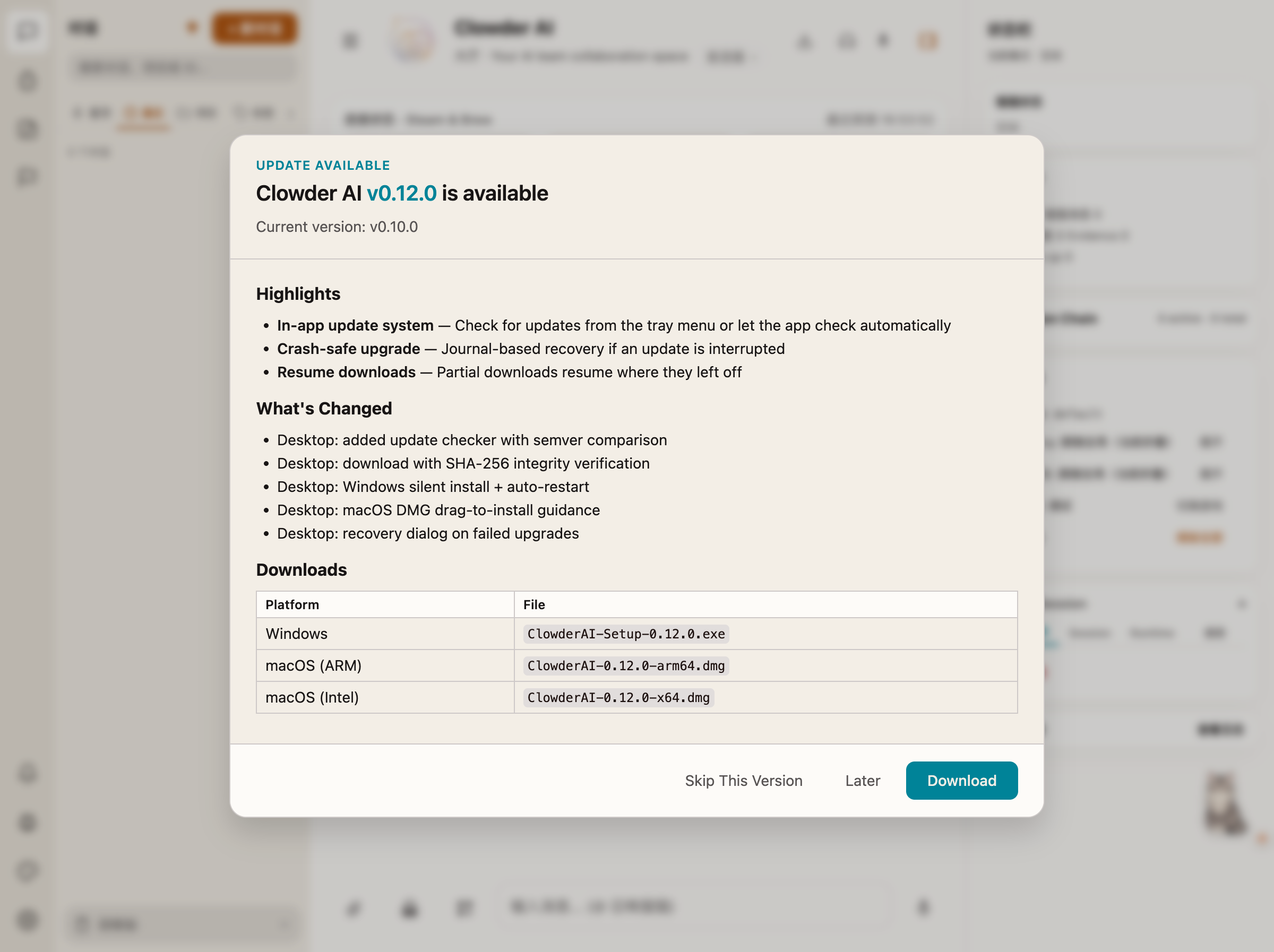
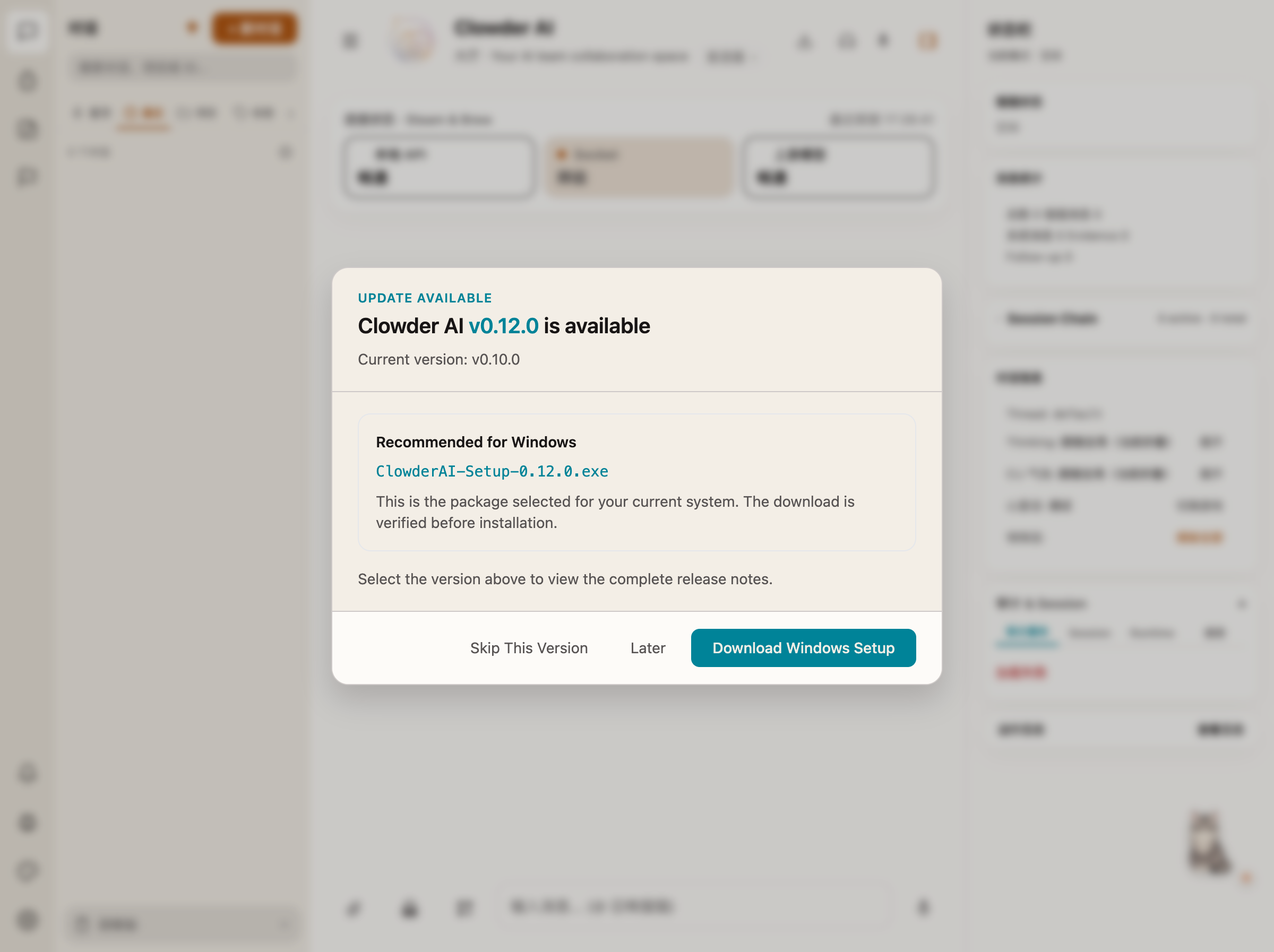
docs(F273): refresh platform-specific updater evidence
Why: operator feedback narrowed the offer to the checker-selected package and a compact modal, so the review packet and visual evidence must prove Windows/macOS isolation and ordinary-browser inertness at the final UI contract.

Guard: the fork-only inbound brand guard rejects the intentional upstream Clowder AI product name in the F273 feature document; Biome passed and an exact-head full gate follows immediately.

diff --git a/feature-specs/2026-07-28-f273-update-ux-fallback.md b/feature-specs/2026-07-28-f273-update-ux-fallback.md
@@ -9,12 +9,12 @@ created: 2026-07-28
 
 **Tracking:** PR #1105 post-merge field-validation findings
 **Goal:** Make the existing desktop updater understandable and recoverable on proxied Windows systems without weakening its GitHub asset-integrity boundary.
-**Acceptance Criteria:** AC-E1 the update prompt renders GitHub release Markdown in the app and exposes a clickable canonical release link; AC-E2 automatic download continues through Electron's default system-proxy session and emits safe proxy/redirect/status/phase/byte diagnostics without logging signed URLs at any error boundary; AC-E3 download failure, including update-directory creation failure, releases manager state and offers Retry, Download in Browser, and Cancel, with the awaited browser path opening only the exact canonical release page or exposing that URL for manual use; AC-E4 the main/renderer prompt bridge validates sender, version, and action, replays a pending prompt after renderer mount or reload, invalidates readiness on navigation or process loss, bounds presentation with a native fallback, and resolves at most once; AC-E5 existing asset selection, Range/ETag resume, size/digest verification, installer journal, portable fail-safe, and upgrade recovery behavior remain unchanged.
+**Acceptance Criteria:** AC-E1 the update prompt shows only the exact asset already selected for the current OS/architecture (Windows Setup.exe or matching macOS dmg) and exposes a clickable canonical release link; AC-E2 automatic download continues through Electron's default system-proxy session and emits safe proxy/redirect/status/phase/byte diagnostics without logging signed URLs at any error boundary; AC-E3 download failure, including update-directory creation failure, releases manager state and offers Retry, Download in Browser, and Cancel, with the awaited browser path opening only the exact canonical release page or exposing that URL for manual use; AC-E4 the main/renderer prompt bridge validates sender, version, platform, asset, and action, replays a pending prompt after renderer mount or reload, invalidates readiness on navigation or process loss, bounds presentation with a native fallback, and resolves at most once; AC-E5 existing asset selection, Range/ETag resume, size/digest verification, installer journal, portable fail-safe, and upgrade recovery behavior remain unchanged.
 **Architecture cell:** `hub-action-surface`
 **Map delta:** none
 **Map delta why:** The web-rendered prompt is a desktop-owned action surface mounted in the existing AppShell. It adds no service, persistence owner, feed, or network boundary.
-**Architecture:** The Electron main process owns one pending update-prompt transaction and sends a narrow serializable view model through a context-isolated preload bridge. The AppShell renders release notes with the existing safe Markdown component. Renderer actions are admitted by a sender/version/action guard. Downloading remains in the main process through Electron's default session; the session is refreshed and inspected, not overridden. Native dialogs remain the fallback for download/install failures and gain a canonical manual-browser action.
-**Tech Stack:** Electron 35, Node.js, React/Next.js, ReactMarkdown, Electron IPC
+**Architecture:** The Electron main process owns one pending update-prompt transaction and sends a narrow serializable view model through a context-isolated preload bridge. The view model reuses the checker-selected `target.asset.name` and a closed platform enum; the AppShell does not infer the OS or parse a cross-platform release table. Renderer actions are admitted by a sender/version/action guard. Downloading remains in the main process through Electron's default session; the session is refreshed and inspected, not overridden. Native dialogs remain the fallback for download/install failures and gain a canonical manual-browser action.
+**Tech Stack:** Electron 35, Node.js, React/Next.js, Electron IPC
 **前端验证:** Yes
 
 ---
@@ -23,7 +23,7 @@ created: 2026-07-28
 
 Terminal behavior:
 
-1. The update prompt displays formatted release notes and a clickable `vX.Y.Z` link to the canonical GitHub release.
+1. The update prompt displays the single checker-selected package for the current OS/architecture and a clickable `vX.Y.Z` link to the canonical GitHub release.
 2. Download uses the same Electron default session that resolves the system proxy, and a field log can distinguish proxy decision, redirect, response, stream, timeout, and byte-count failures.
 3. Any automatic-download failure leaves the user with a browser-download path that supports manual overwrite installation.
 4. Reloading or mounting the renderer cannot lose or duplicate the prompt, and an untrusted frame cannot choose an update action or open an arbitrary URL.
@@ -31,7 +31,7 @@ Terminal behavior:
 Not in scope:
 
 - a GitHub mirror, custom proxy configuration UI, or environment-variable proxy injection;
-- raw HTML in release notes;
+- rendering or filtering the complete GitHub release body inside the prompt;
 - arbitrary URL opening from renderer payloads;
 - changing the trusted asset tuple or installer execution boundary;
 - silent background downloads or silent automatic installation.
@@ -53,7 +53,7 @@ Not in scope:
 | Object | Owner | States / transitions | Adversarial cases |
 |---|---|---|---|
 | update prompt transaction | Electron main prompt controller | idle → pending → download/later/skip → idle | renderer not mounted, reload, duplicate action, stale version, wrong sender, window destroyed |
-| renderer prompt view | AppShell component | absent → view-model rendered → user action → absent | Markdown links, long notes, close/Escape, duplicate event |
+| renderer prompt view | AppShell component | absent → platform asset rendered → user action → absent | wrong platform, other-platform asset leakage, close/Escape, duplicate event |
 | asset download | `downloadAsset()` | request → redirects → response → stream → verified or failed | system proxy refresh failure, connection close before response, redirect listener cancellation, partial bytes, signed URL logging |
 | download recovery dialog | `UpdateManager` | failed → retry/manual/cancel | recursive retry while `_downloading`, canonical release URL, portable behavior |
 
@@ -81,7 +81,7 @@ Not in scope:
 - Modify: `desktop/update-installer.test.js`
 - Add: `desktop/update-prompt-controller.test.js`
 
-1. Add failing tests proving `_promptUpdate()` delegates a structured payload and maps download/later/skip.
+1. Add failing tests proving `_promptUpdate()` delegates the checker-selected platform asset and maps download/later/skip.
 2. Add failing tests proving a download failure offers the three recovery actions and opens the exact release page for the manual action.
 3. Add failing controller tests for replay, exact-once resolution, wrong sender, stale version, unknown action, release-link action, and destruction.
 4. Add failing installer tests for default-session proxy refresh/resolution, explicit synchronous redirect following, phase/byte diagnostics, and absence of signed redirect text.
@@ -96,7 +96,7 @@ Not in scope:
 - Modify: `desktop/main.js`
 
 1. Implement a narrow prompt controller with injected `ipcMain`, main-window getter, external opener, and logger.
-2. Inject `showUpdatePrompt()` into `UpdateManager`; retain a plain-text native fallback for an unavailable window, never raw Markdown.
+2. Inject `showUpdatePrompt()` into `UpdateManager`; retain a plain-text native fallback that recommends the same selected asset when the window is unavailable.
 3. Change download failure actions to Retry / Download in Browser / Cancel.
 4. Before download, best-effort refresh the default session's proxy config and log `resolveProxy(assetUrl)`.
 5. Add safe redirect/response/failure logging; if the redirect event is observed, call `followRedirect()` synchronously as Electron requires.
@@ -112,7 +112,7 @@ Not in scope:
 - Modify: `packages/web/src/components/AppShell.tsx`
 - Modify: relevant web type declaration for `window.desktopBridge`
 
-1. Add failing component tests for Markdown formatting, version/release links, action messages, long-note scrolling, and inaccessible raw HTML.
+1. Add failing component tests for Windows Setup, macOS architecture dmg, absence of the other platform's package, version/release links, and action messages.
 2. Expose only subscribe/unsubscribe, ready/replay, action, and open-release calls through preload.
 3. Mount the prompt once at the route-stable AppShell root.
 4. Route external links through an HTTPS-only `setWindowOpenHandler`; deny Electron-created windows and internal navigation.
@@ -126,14 +126,15 @@ Not in scope:
 
 1. Record the operator-approved override of the original native-dialog-only UI decision.
 2. Run focused desktop and web tests, lint/typecheck/build, then the repository quality gate.
-3. Render the prompt in an isolated browser-preview environment and capture the formatted notes, canonical link, and failure actions.
+3. Render Windows and macOS prompts in an isolated browser-preview environment and capture the selected package, canonical link, platform-specific download label, and absence of the other platform's extension.
 4. Rebuild the low-version Windows field package only after review and CI, then retest through Clash Verge using `main.log` proxy/redirect markers.
 
 ## RED adversarial test matrix
 
 | Scenario | Expected |
 |---|---|
-| release body contains headings, lists, emphasis, code, and HTML | Markdown constructs render; raw HTML is not executed |
+| release body contains a cross-platform downloads table | body does not cross prompt IPC; only `target.asset.name` for the current OS/arch renders |
+| prompt payload uses unsupported platform or an empty asset name | rejected before presentation |
 | renderer registers after main discovered the release | ready/replay returns the pending prompt |
 | renderer reloads while prompt pending | one view is replayed; main transaction remains one |
 | duplicate download click | first accepted action resolves; later actions are ignored |

diff --git a/docs/bug-report/f273-update-ux-field-validation/quality-gate.md b/docs/bug-report/f273-update-ux-field-validation/quality-gate.md
@@ -19,14 +19,14 @@ This report gates the implementation slice only. F273 remains `in-progress` unti
 
 | Requirement | Implementation evidence | Test evidence | Result |
 |---|---|---|---|
-| Render release Markdown | `DesktopUpdatePrompt` renders the GitHub release body through the existing `MarkdownContent`; raw HTML is not enabled | heading/emphasis/raw-script component assertions | Met |
+| Platform-specific recommendation | Main sends the exact `target.asset.name` selected for the current OS/architecture; the compact `max-w-lg` renderer shows that one package and a platform-specific download label, without receiving the release body or other-platform download table | Windows Setup, macOS arm64 dmg, absent-other-extension, width-contract, native-fallback, and invalid-platform payload assertions | Met |
 | Exact release link | Main derives `https://github.com/zts212653/clowder-ai/releases/tag/v{version}` after semantic-version validation; renderer can request only `open-release` for the pending version | manager, preload, component, and controller tests | Met |
 | Browser-like system proxy path | Download remains on Electron `net.request` and receives `session.defaultSession` only for bounded `forceReloadProxyConfig()` / `resolveProxy()` diagnostics; no proxy override or environment injection is added | proxy success and best-effort failure tests | Met |
 | Safe transport observability | Logs expose proxy decision, redirect host/status/method, response host/status, failure phase, and received bytes; every manager/controller error boundary redacts URL-bearing text, and signed redirect path/query are excluded | signed-redirect, upper-manager-error, controller-error, and connection-close phase/byte tests | Met |
 | Manual recovery | Failed automatic download offers Retry, Download in Browser, and Cancel; browser action awaits the exact release page, reports opener failure with a canonical manual URL, and tells the user an overwrite install preserves data | manager failure-action and rejected-browser-opener tests | Met |
 | IPC trust boundary | Main owns the pending payload and canonical URL; preload admits enumerated actions only; controller checks current main-window sender, main frame, exact version, and action, then resolves once | hostile sender/frame/version/action, replay, duplicate-action, and disposal tests | Met |
 | Ordinary-browser isolation | The AppShell can mount the component, but without the Electron preload bridge it subscribes to nothing, performs no update check, and renders no prompt | explicit no-`desktopBridge` component test plus injected-bridge visual test | Met |
-| Renderer-unavailable recovery | Initial prompt presentation is bounded; renderer navigation or process loss invalidates readiness and starts the same bounded presentation timer for a pending prompt; timeout falls back to a plain native dialog without raw Markdown | controller ready-then-unavailable, main lifecycle-wiring, presentation-timeout, and manager native-fallback tests | Met |
+| Renderer-unavailable recovery | Initial prompt presentation is bounded; renderer navigation or process loss invalidates readiness and starts the same bounded presentation timer for a pending prompt; timeout falls back to a plain native dialog with the same selected platform asset | controller ready-then-unavailable, main lifecycle-wiring, presentation-timeout, and manager native-fallback tests | Met |
 | Download-state recovery | Update-directory creation and download both run inside the `_downloading` ownership boundary, so either failure offers recovery and releases the lock | repeated directory-creation-failure test | Met |
 | Packaged dependency closure | Electron build files contain every local JavaScript dependency reachable from `main.js` | recursive dependency-graph test first failed on both new modules, then passed | Met |
 
@@ -39,14 +39,15 @@ This report gates the implementation slice only. F273 remains `in-progress` unti
 5. Fresh-context review reproduced four additional failures: an upper-layer signed-URL leak, a sticky `_downloading` lock after update-directory creation failed, an unhandled browser-opener rejection, and stale renderer readiness after reload or crash.
 6. Four focused tests failed for those exact reasons before the correction. Error handling is now sanitized at each ownership boundary, directory creation is inside the existing `try/finally`, the browser recovery action is awaited and reports a canonical manual URL on failure, and Electron lifecycle events invalidate renderer readiness.
 7. The same focused tests passed after the correction, followed by all 157 desktop tests and the complete public suite.
+8. Operator follow-up rejected the cross-platform release table in the prompt. New manager/component/controller tests first failed because the payload still carried `releaseNotes`; the implementation then switched to the checker-selected `platform + assetName`, and all focused tests passed.
 
 ## Verification evidence
 
 | Check | Result |
 |---|---|
-| `node --test desktop/*.test.js` | 157 passed, 0 failed |
+| `node --test desktop/*.test.js` | 159 passed, 0 failed |
 | `node --test packages/api/test/build-script-cross-platform.test.js` | 8 passed, 0 failed |
-| `pnpm --filter @cat-cafe/web test -- DesktopUpdatePrompt` | 6 passed, 0 failed |
+| `pnpm --filter @cat-cafe/web exec vitest run src/components/__tests__/DesktopUpdatePrompt.test.tsx` | 7 passed, 0 failed |
 | Adjacent AppShell tests | Passed |
 | Web TypeScript check | Passed |
 | Web production build | Passed |
@@ -75,6 +76,8 @@ The literal root `pnpm test` is not the public-sync truth source: this checkout 
 - Update-directory creation failure cannot strand the manager's `_downloading` lock.
 - A rejected default-browser launch is awaited, sanitized, and converted into a visible canonical manual URL.
 - Renderer navigation or process loss invalidates prompt readiness; every pending prompt still has a bounded native fallback.
+- The renderer does not infer the platform or parse GitHub Markdown: it displays the platform enum and exact asset name supplied from the already-selected trusted target.
+- The prompt IPC payload no longer contains the GitHub release body or other-platform download table.
 - The manual browser path never authorizes local installer execution.
 - Automatic execution still requires fresh GitHub metadata plus exact asset name, size, and SHA-256 digest.
 - No local service, production Redis, persistent runtime store, or reserved port was used.
@@ -85,6 +88,9 @@ The literal root `pnpm test` is not the public-sync truth source: this checkout 
 
 ## UI verification
 
-The actual `DesktopUpdatePrompt` component was mounted from exact HEAD through an isolated Next.js production server on port 3231. Playwright explicitly injected a mock `desktopBridge` and v0.10.0 → v0.12.0 payload before mount; this is test-only simulation, not ordinary-browser product behavior. The screenshot is archived at `docs/bug-report/f273-update-ux-field-validation/artifacts/update-modal-v0.10.0-to-v0.12.0.png`.
+The actual `DesktopUpdatePrompt` component was mounted from exact HEAD through an isolated Next.js production server on port 3231. Playwright explicitly injected mock Windows and macOS `desktopBridge` payloads before mount; this is test-only simulation, not ordinary-browser product behavior. The screenshots are archived at:
 
-DOM inspection verified the modal role, canonical release link, current/target versions, Markdown headings/emphasis/table, and Skip/Later/Download actions. The server, injected route state, browser, and temporary main-worktree file were removed afterward; port 3231 was closed. The independent component regression also proves that an ordinary browser without `desktopBridge` renders nothing. No F273 design source exists in the repository (`docs/design/f190-console-layout.pen` is unrelated), so there is no matching `.pen` comparison target.
+- `docs/bug-report/f273-update-ux-field-validation/artifacts/update-modal-v0.10.0-to-v0.12.0.png`
+- `docs/bug-report/f273-update-ux-field-validation/artifacts/update-modal-macos-arm64-v0.10.0-to-v0.12.0.png`
+
+DOM inspection verified the compact `max-w-lg` modal, dialog role, canonical release link, current/target versions, Windows-only Setup recommendation, macOS-only arm64 dmg recommendation, platform-specific download labels, and absence of the other platform's extension. The server, injected route state, browser, and temporary main-worktree files were removed afterward; port 3231 was closed. The independent component regression also proves that an ordinary browser without `desktopBridge` renders nothing. No F273 design source exists in the repository (`docs/design/f190-console-layout.pen` is unrelated), so there is no matching `.pen` comparison target.

diff --git a/review-notes/2026-07-28-f273-updater-field-correction-review-request.md b/review-notes/2026-07-28-f273-updater-field-correction-review-request.md
@@ -3,12 +3,12 @@
 Review-Target-ID: f273
 Branch: fix/f273-update-ux-fallback
 Base: `origin/main@7207936a3`
-Exact implementation HEAD: `d1965ef83`
-Evidence/request commit: this document's commit; no production code changes after `d1965ef83`
+Superseded review HEAD: `e345f7ebb`
+Exact review HEAD: supplied in the formal handoff; it must include this packet and the refreshed platform-specific screenshots
 
 ## What
 
-- Replace the native plain-text update offer with a context-isolated AppShell modal that renders safe GitHub release Markdown and a main-owned canonical release link.
+- Replace the native plain-text update offer with a context-isolated AppShell modal that shows only the checker-selected package for the current platform/architecture plus a main-owned canonical release link.
 - Keep automatic download on Electron's default system-proxy session while adding bounded, redacted proxy/redirect/response/phase/byte diagnostics.
 - Add Retry / Download in Browser / Cancel recovery without weakening installer identity, size, digest, resume, journal, or execution checks.
 - Bound renderer presentation across mount, navigation, reload, and process loss; reject untrusted/stale/replayed IPC.
@@ -21,8 +21,9 @@ Windows field validation proved that v0.10.0 could discover v0.12.0, but the nat
 ## Original Requirements
 
 > A packaged Windows v0.10.0 client detects v0.12.0, but the update dialog shows literal Markdown tokens and the automatic download ends with `net::ERR_CONNECTION_CLOSED`.
-> Render release notes in the app with a clickable exact release link; keep automatic download primary and offer browser recovery when it fails.
 > “正常的源码应该不会提示这个吧；应该只有安装包才会提示吧。”
+> “如果是Windows就推荐Windows的setup安装包 macos就提示mac对应的dmg……因为用户点击download的时候你也是需要下载合适的版本的包的。”
+> “升级的弹窗有点太宽了；可以窄一点的。”
 
 - Source: `docs/bug-report/f273-update-ux-field-validation/bug-report.md`
 - Please judge the deliverable against both field recovery and the ordinary-browser isolation boundary above.
@@ -31,6 +32,7 @@ Windows field validation proved that v0.10.0 could discover v0.12.0, but the nat
 
 - No hard-coded proxy, proxy environment injection, mirror, alternate downloader, or arbitrary external URL.
 - The renderer owns presentation only; main retains release/version/action authority and all download/install state.
+- The renderer does not parse release Markdown or infer the OS. Main reuses the exact asset already selected by `selectUpdateTarget()` and sends only `windows|macos + assetName`; the compact offer is capped at `max-w-lg`.
 - Native dialogs remain the bounded fallback when the renderer or automatic download cannot complete.
 - `did-start-loading` and `render-process-gone` invalidate readiness even during benign navigation; with no pending prompt this is a no-op, and a trusted ready event clears the timer.
 - The archived browser screenshot uses an explicitly injected mock Electron bridge. This keeps the ordinary web app inert while exercising the real component.
@@ -56,6 +58,7 @@ Please reviewer check:
 3. Do directory creation, browser launch, renderer navigation/crash, redirect, response, and stream failures all release their state owner and leave a visible bounded recovery path?
 4. Does the ordinary browser remain inert while packaged Electron can replay exactly one pending prompt?
 5. Does `desktop.build.files` close the full local JavaScript dependency graph reachable from `main.js`?
+6. Is the displayed recommendation exactly the asset that `downloadAndInstall(target)` will receive, with no other-platform package exposed?
 
 ### Value OQ
 
@@ -103,7 +106,8 @@ The targeted desktop and packaging tests do not import API `dist/`; build `@cat-
 
 ### Spec compliance
 
-- Markdown release notes and the exact-version link render through the existing safe Markdown component; raw HTML is disabled.
+- The exact selected Windows Setup or current-architecture macOS dmg is shown; the GitHub release body and cross-platform download table do not cross prompt IPC.
+- Complete release notes remain available through the main-owned exact-version link.
 - Electron default-session proxy remains authoritative; proxy refresh/resolution is diagnostic and best-effort.
 - Renderer actions are enumerated and admitted only for the current main frame and exact pending version.
 - Manual recovery cannot authorize automatic execution; existing asset tuple and digest verification remain unchanged.
@@ -113,13 +117,13 @@ The targeted desktop and packaging tests do not import API `dist/`; build `@cat-
 
 ```text
 node --test desktop/*.test.js
-  157 passed, 0 failed
+  159 passed, 0 failed
 
 node --test packages/api/test/build-script-cross-platform.test.js
   8 passed, 0 failed
 
-pnpm --filter @cat-cafe/web test -- DesktopUpdatePrompt
-  6 passed, 0 failed
+pnpm --filter @cat-cafe/web exec vitest run src/components/__tests__/DesktopUpdatePrompt.test.tsx
+  7 passed, 0 failed
 
 env -u NODE_ENV -u REDIS_URL pnpm --filter @cat-cafe/api run test:public
   16,690 passed, 0 failed, 28 skipped
@@ -145,9 +149,9 @@ The isolated manager dogfood probe produced:
 
 ### Browser evidence
 
-- Screenshot: `docs/bug-report/f273-update-ux-field-validation/artifacts/update-modal-v0.10.0-to-v0.12.0.png`
-- Exact component, isolated Next.js production server on web 3231, explicit mock `desktopBridge`.
-- DOM verified dialog semantics, canonical link, versions, Markdown headings/emphasis/table, and all three terminal actions.
+- Screenshots: `docs/bug-report/f273-update-ux-field-validation/artifacts/update-modal-v0.10.0-to-v0.12.0.png` and `update-modal-macos-arm64-v0.10.0-to-v0.12.0.png`.
+- Exact component, isolated Next.js production server on web 3231, explicit Windows and macOS mock `desktopBridge` payloads.
+- DOM verified the compact `max-w-lg` width, dialog semantics, canonical link, versions, single selected asset, platform-specific download label, and absence of the other platform's extension.
 - Ordinary-browser regression deletes `window.desktopBridge` and asserts empty output.
 - Server/browser/temp route were removed and port 3231 was closed.
 

diff --git a/docs/bug-report/f273-update-ux-field-validation/bug-report.md b/docs/bug-report/f273-update-ux-field-validation/bug-report.md
@@ -20,8 +20,8 @@ tips_exempt:
 | **4. Diagnosis strategy** | Trace release check → update prompt → renderer action → `downloadAsset()` → redirects/response/write stream. Preserve Electron's default session and inspect it with `forceReloadProxyConfig()` plus `resolveProxy()`. Record only safe proxy/host/status/phase metadata; never signed redirect query strings. |
 | **5. Timeout strategy** | Keep the existing bounded request/download timeout behavior. Unit tests use deterministic fake requests, responses, IPC senders, and renderer events; no live GitHub, runtime service, production Redis, or local reserved port is used. |
 | **6. Early warning** | Log download start, resolved proxy mode, each safe redirect host/status, response host/status, failure phase, and received bytes. Retain the existing integrity, asset-size, ETag, Range, and journal checks. |
-| **7. User-visible correction** | Render release notes in the app with a clickable exact release link. Automatic download remains primary. A failed download offers Retry, Download in Browser, or Cancel so a user can download and overwrite-install manually. |
-| **8. Acceptance** | Red-to-green tests cover Markdown rendering, safe external links, renderer reload/replay and readiness invalidation, untrusted IPC rejection, ordinary-browser isolation, default-session proxy diagnostics, redirect following, manager-boundary log redaction, update-directory failure recovery, and rejected-browser-opener recovery. |
+| **7. User-visible correction** | Show a compact in-app offer with the single asset already selected for the current OS and architecture: Windows Setup.exe or the matching macOS dmg. Keep the exact release link for complete notes. Automatic download remains primary. A failed download offers Retry, Download in Browser, or Cancel so a user can download and overwrite-install manually. |
+| **8. Acceptance** | Red-to-green tests cover platform-specific asset presentation, absence of other-platform packages, safe external links, renderer reload/replay and readiness invalidation, untrusted IPC rejection, ordinary-browser isolation, default-session proxy diagnostics, redirect following, manager-boundary log redaction, update-directory failure recovery, and rejected-browser-opener recovery. |
 
 ## Reproduction record
 
@@ -43,8 +43,16 @@ tips_exempt:
 ## Operator boundary clarification
 
 > “我注意到 浏览器的版本也在提示新版本的这个只是你们测试吧；正常的源码应该不会提示这个吧；应该只有安装包才会提示吧；”
+>
+> “如果是Windows就推荐Windows的setup安装包 macos就提示mac对应的dmg 没必要提示信息都显示吧；因为用户点击download的时候你也是需要下载合适的版本的包的”
+>
+> “升级的弹窗有点太宽了；可以窄一点的”
 
 Confirmed: the observed browser prompt was a Playwright visual test that explicitly injected a mock Electron bridge and v0.10.0 → v0.12.0 payload. In normal browser execution, `window.desktopBridge` is absent, the component remains empty, and no update request originates from the web app. Packaged Electron is the production prompt owner; a developer who deliberately launches the Electron desktop shell can exercise the same desktop-only path.
+
+The final prompt now consumes the exact `target.asset.name` already selected by the trusted update checker. Windows receives `platform=windows` plus `ClowderAI-Setup-{version}.exe`; macOS receives `platform=macos` plus the current architecture's `ClowderAI-{version}-{arm64|x64}.dmg`. The GitHub release body and its cross-platform download table no longer cross the prompt IPC boundary.
+
+The compact platform recommendation also removes the old wide release-notes layout. The modal is capped at `max-w-lg`; long asset names use safe text wrapping, and the footer keeps the three existing actions.
 
 ## Fresh-context repair record
 

diff --git a/docs/bug-report/f273-update-ux-field-validation/artifacts/README.md b/docs/bug-report/f273-update-ux-field-validation/artifacts/README.md
@@ -1,12 +1,18 @@
 # F273 visual-test artifacts
 
-`update-modal-v0.10.0-to-v0.12.0.png` is a **test-only screenshot**, not evidence that the ordinary web application checks for desktop updates.
+Both PNGs are **test-only screenshots**, not evidence that the ordinary web application checks for desktop updates:
 
-The exact-head `DesktopUpdatePrompt` was mounted on an isolated Next.js server. Playwright injected a mock Electron `desktopBridge` and a v0.10.0 → v0.12.0 payload so the desktop-only modal could be inspected. Without that bridge, the normal browser component renders nothing; this boundary is covered by `DesktopUpdatePrompt.test.tsx`.
+- `update-modal-v0.10.0-to-v0.12.0.png`: Windows Setup recommendation.
+- `update-modal-macos-arm64-v0.10.0-to-v0.12.0.png`: macOS arm64 dmg recommendation.
 
-The screenshot verifies:
+The exact-head `DesktopUpdatePrompt` was mounted on an isolated Next.js server. Playwright injected a mock Electron `desktopBridge` and a v0.10.0 → v0.12.0 platform payload so the desktop-only modal could be inspected. Without that bridge, the normal browser component renders nothing; this boundary is covered by `DesktopUpdatePrompt.test.tsx`.
 
-- rendered Markdown headings, emphasis, table, and inline code;
+Together the screenshots verify:
+
+- the final compact `max-w-lg` modal width;
+- Windows shows only `ClowderAI-Setup-0.12.0.exe` and `Download Windows Setup`;
+- macOS arm64 shows only `ClowderAI-0.12.0-arm64.dmg` and `Download macOS DMG`;
+- neither prompt exposes the other platform's package;
 - the main-owned canonical v0.12.0 release link;
 - current version v0.10.0;
-- Skip This Version, Later, and Download actions.
+- Skip This Version and Later actions.
